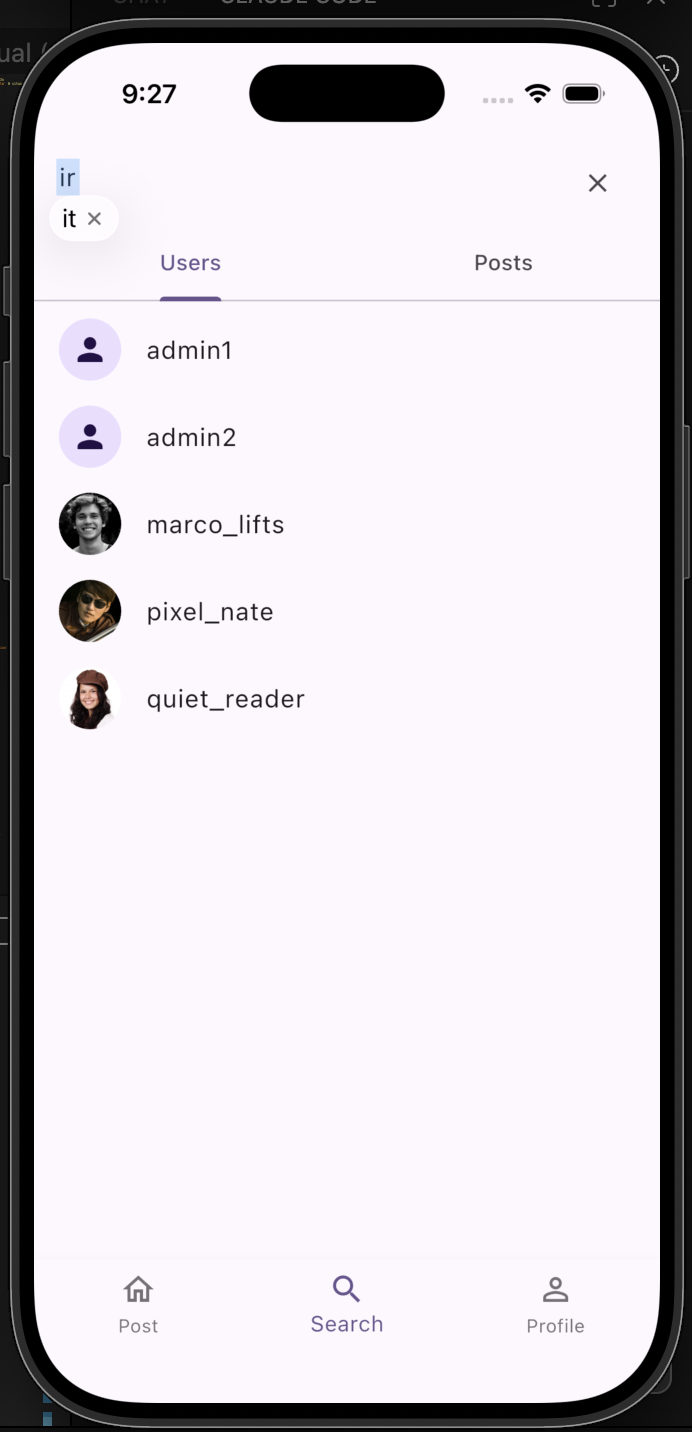
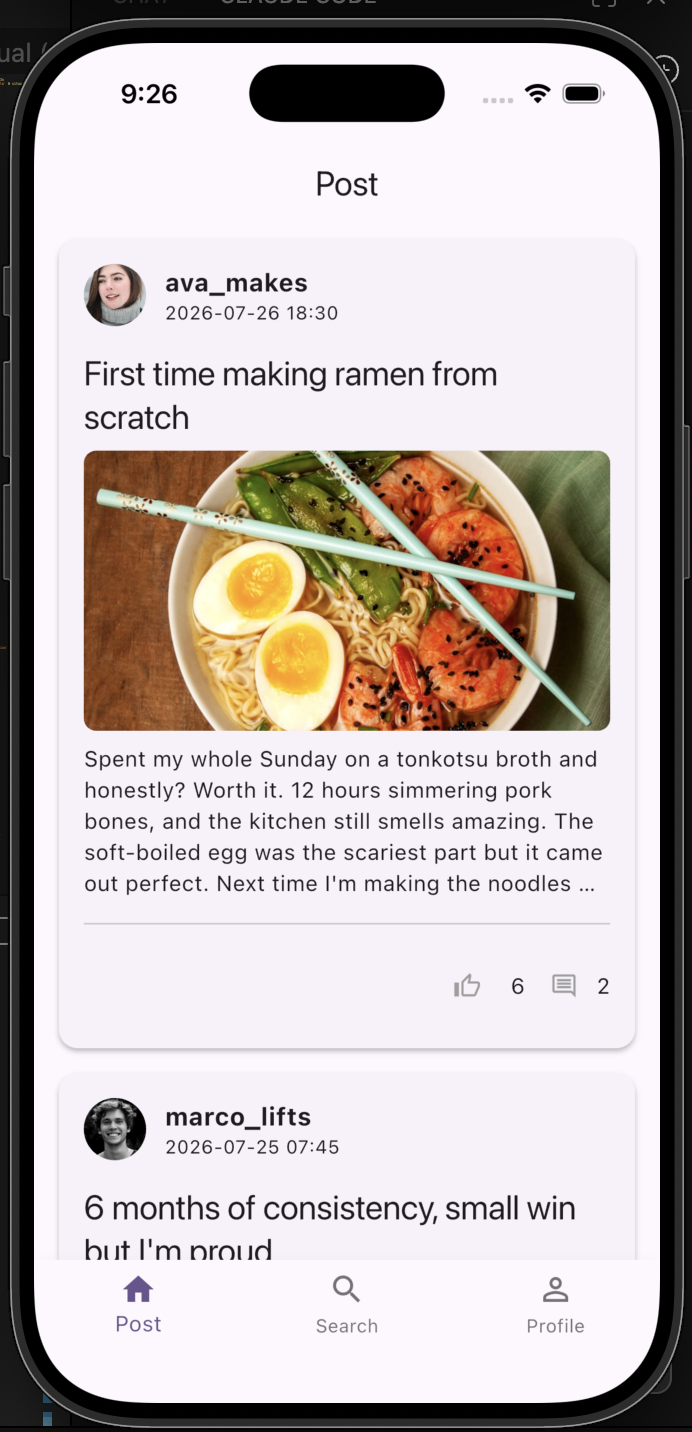
Fix: Imagenes

diff --git a/README.md b/README.md
@@ -28,10 +28,10 @@ El proyecto está organizado como un **monorepo** siguiendo los principios de
 
 Capturas tomadas en el simulador de iOS.
 
-| Feed | Feed (scroll) | Detalle del post |
-| :--: | :--: | :--: |
-| <img src="docs/screenshots/feed.png" width="230" alt="Feed de posts" /> | <img src="docs/screenshots/feed-scroll.png" width="230" alt="Feed con scroll" /> | <img src="docs/screenshots/post-detail.png" width="230" alt="Detalle del post con comentarios" /> |
-| Lista paginada de posts de la comunidad, con imagen, likes y comentarios. | El feed carga más posts a medida que se hace scroll. | Post completo con su hilo de comentarios y campo para comentar. |
+| Feed | Detalle del post |
+| :--: | :--: |
+| <img src="docs/screenshots/feed.png" width="230" alt="Feed de posts" /> | <img src="docs/screenshots/post-detail.png" width="230" alt="Detalle del post con comentarios" /> |
+| Lista paginada de posts de la comunidad, con imagen, likes y comentarios. | Post completo con su hilo de comentarios y campo para comentar. |
 
 | Búsqueda | Mi perfil |
 | :--: | :--: |

diff --git a/README.en.md b/README.en.md
@@ -28,10 +28,10 @@ with clear separation between the presentation, domain, and data layers.
 
 Captured on the iOS simulator.
 
-| Feed | Feed (scrolled) | Post detail |
-| :--: | :--: | :--: |
-| <img src="docs/screenshots/feed.png" width="230" alt="Post feed" /> | <img src="docs/screenshots/feed-scroll.png" width="230" alt="Feed scrolled" /> | <img src="docs/screenshots/post-detail.png" width="230" alt="Post detail with comments" /> |
-| Paginated list of community posts, with image, likes and comments. | The feed loads more posts as you scroll. | Full post with its comment thread and an input to reply. |
+| Feed | Post detail |
+| :--: | :--: |
+| <img src="docs/screenshots/feed.png" width="230" alt="Post feed" /> | <img src="docs/screenshots/post-detail.png" width="230" alt="Post detail with comments" /> |
+| Paginated list of community posts, with image, likes and comments. | Full post with its comment thread and an input to reply. |
 
 | Search | My profile |
 | :--: | :--: |
